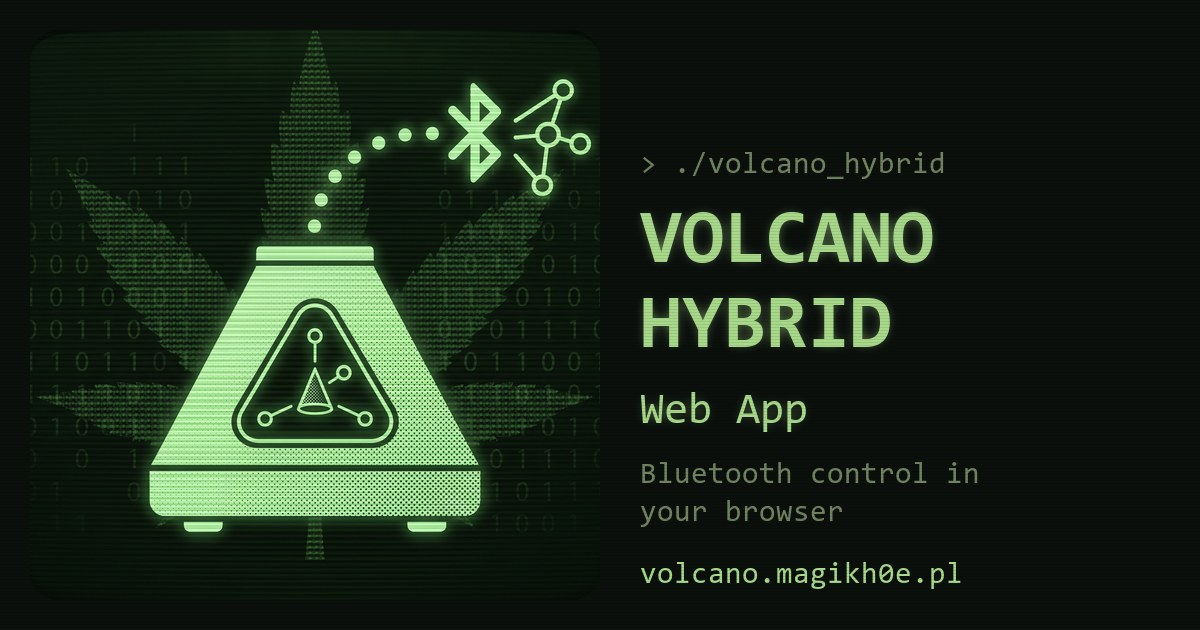
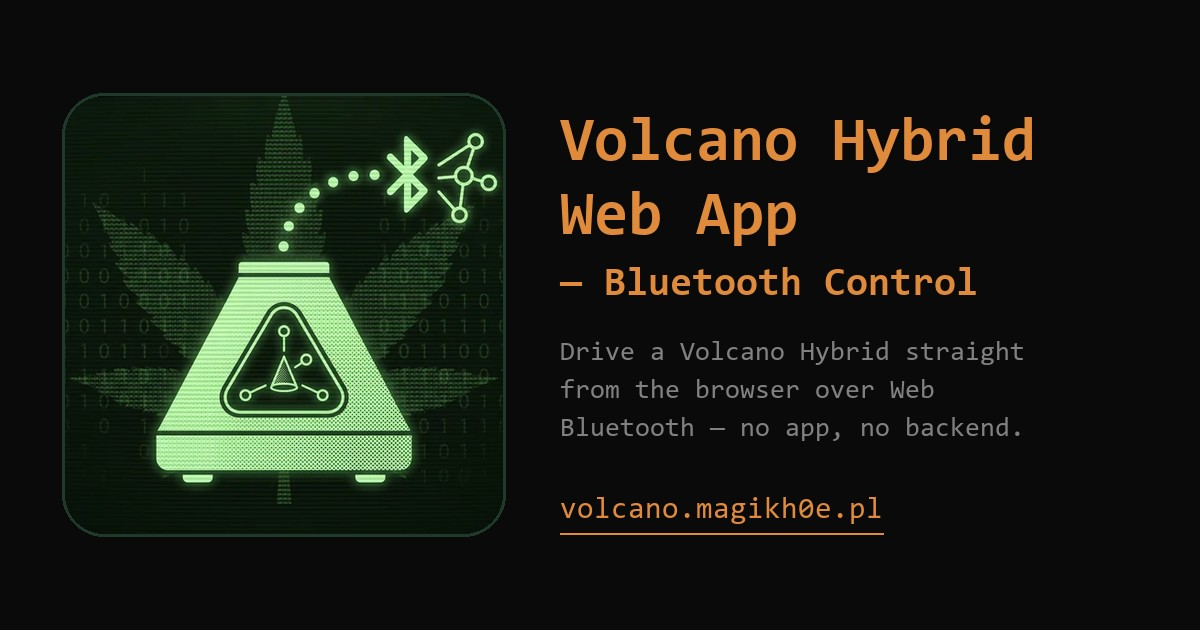
Social card: match the page header layout
og.jpg now mirrors the site header: the logo in its bordered, rounded
box on the left; "Volcano Hybrid Web App — Bluetooth Control" in the
orange heading colour; the grey intro line; the address as an orange
underlined link. Also the README header image.

tools/deploy.py: og.jpg joins robots.txt / sitemap.xml as crawler-only,
so changing it doesn't demand a service-worker CACHE bump.

diff --git a/tools/deploy.py b/tools/deploy.py
@@ -81,8 +81,8 @@ EXCLUDES = [
 ]
 
 SW_FILE = "service-worker.js"
-# Crawler-only files the app never fetches: changing them needs no CACHE bump.
-SW_EXEMPT = {"robots.txt", "sitemap.xml"}
+# Files only crawlers / link previews fetch, never the app: no CACHE bump needed.
+SW_EXEMPT = {"robots.txt", "sitemap.xml", "og.jpg"}
 SITEMAP = "sitemap.xml"
 LOC_RE = re.compile(r"(<loc>([^<]+)</loc>\s*<lastmod>)([^<]*)(</lastmod>)")
 SW_CACHE_RE = re.compile(r'const\s+CACHE\s*=\s*"([^"]+)"')
